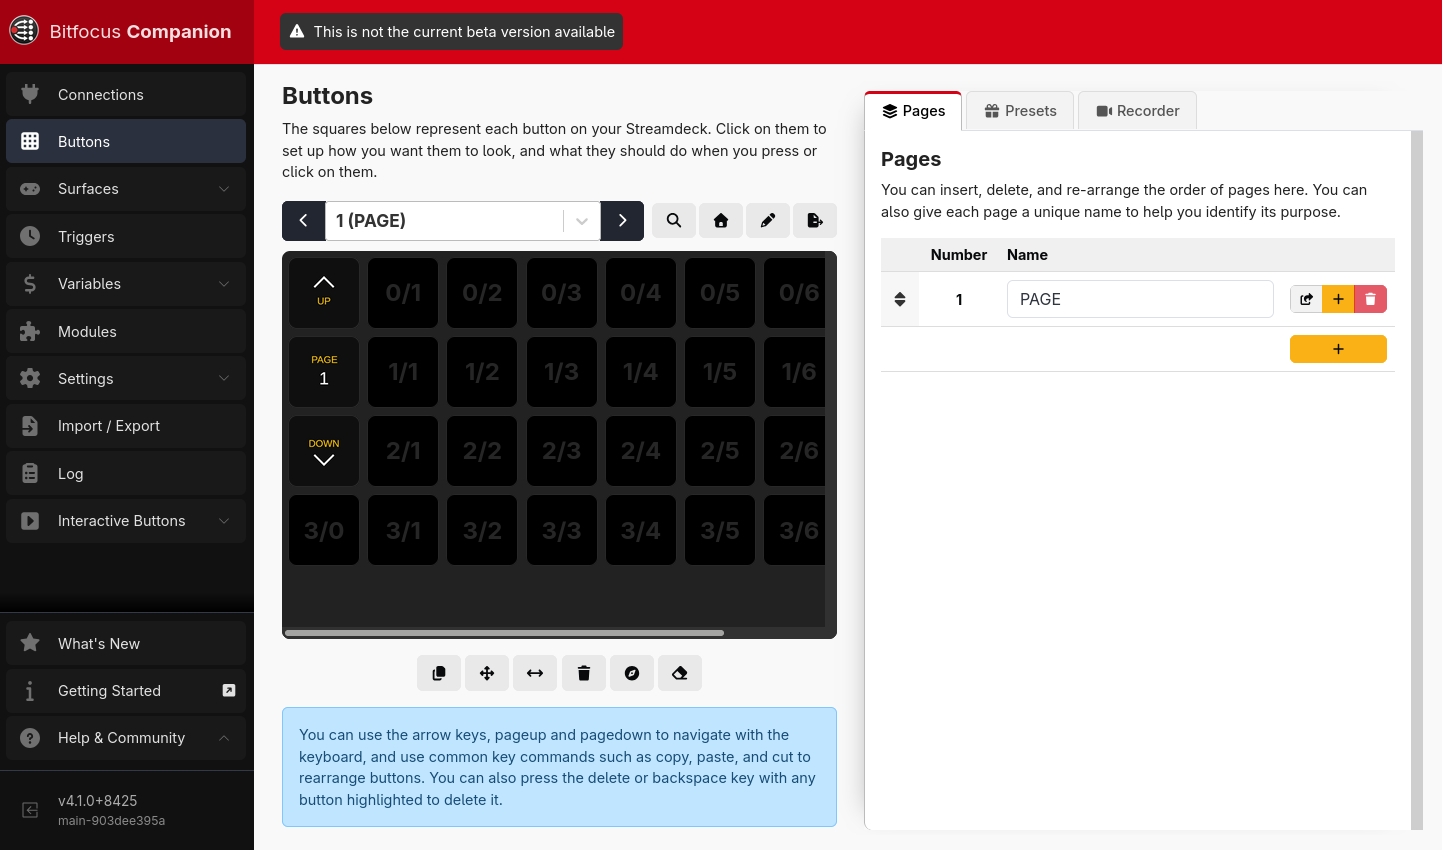
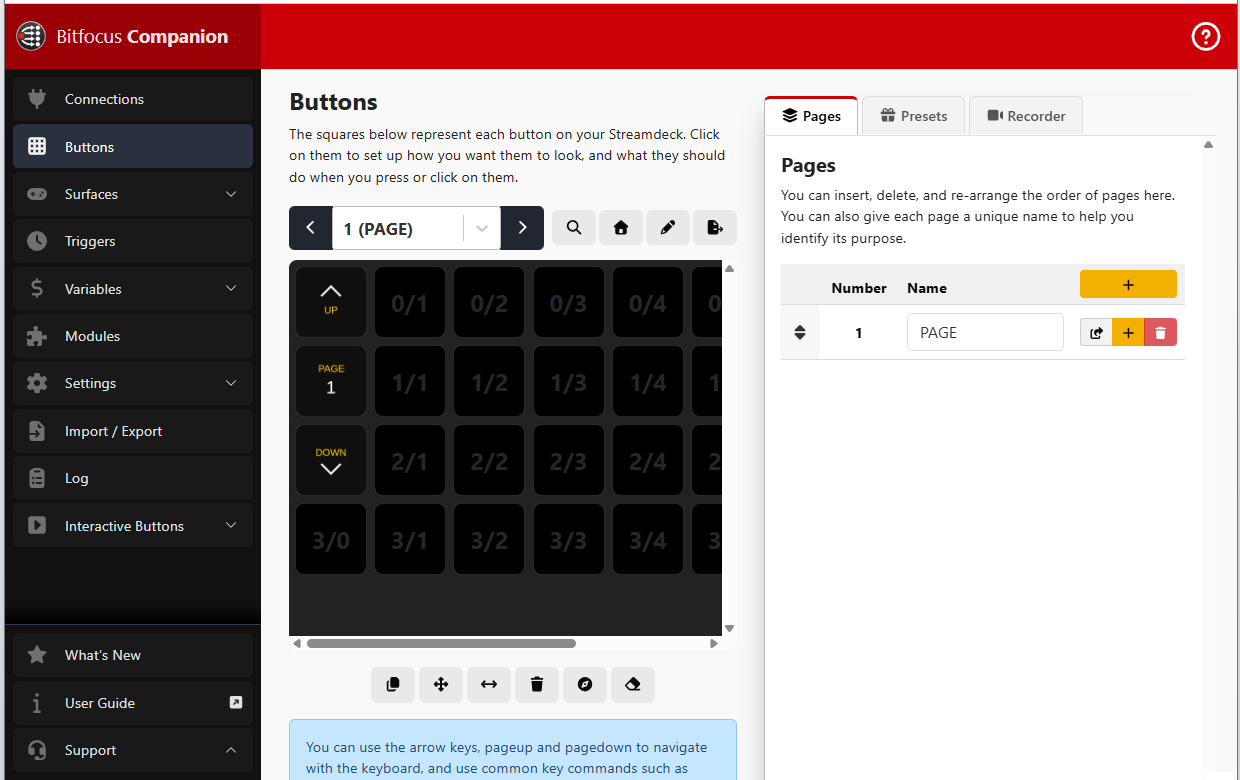
chore: update user-guide for new "layout" features (#4003)

Changed region(s): [[0.0, 0.0, 1.0, 1.0], [0.8581, 0.1231, 1.0, 1.0], [0.6742, 0.3385, 0.7661, 0.4615]]

diff --git a/docs/user-guide/3_config/the-user-interface.md b/docs/user-guide/3_config/the-user-interface.md
@@ -4,10 +4,47 @@ sidebar_position: 0
 description: Overview of the main Companion admin interface layout.
 ---
 
-This page describes the main Companion admin interface and the common places you'll interact with when configuring devices and buttons.
+This page describes the layout that you will see on every page, whether configuring devices and surfaces; defining
+buttons, variables or triggers; or performing other tasks and diagnostics.
 
-- Main navigation happens in the left Sidebar.
-- Pages are typically split into a large main panel (left) for primary tasks and a secondary panel (right) for details, previews, or contextual settings.
-- On smaller screens, the main and secondary panels will be combined using additional navigation controls to reduce scrolling and keep contextual settings accessible.
+## Main Layout
 
-![Admin GUI](images/admingui.png?raw=true 'Companion admin interface — sidebar, main panel, and right details panel')
+- You navigate to pages from the left Sidebar.
+- The header at the top of the page may show notifications, such as the availability of new versions of Companion, and
+  also provides quick access to help and support. (If you are using the
+  [Admin Password](./settings.md#admin-ui-password) feature, a lock-icon appears in the header allowing you to
+  lock the Admin interface with a single click.)
+- The main area of the page is typically split into a large main panel (left) for primary tasks and a secondary panel
+  (right) for details, previews, or contextual settings.
+- On smaller screens, the main and secondary panels will be combined using additional navigation controls to reduce
+  scrolling and keep contextual settings accessible.
+
+![Admin GUI](./images/admingui.png 'Companion admin interface — sidebar, main panel, and right details panel')
+
+## Sidebar Options
+
+Starting with version 4.3, you can customize how you interact with the sidebar through a new context-menu (typically a
+right mouse-click).
+
+![Sidebar context-menu](./images/sidebar-context-menu.png 'Sidebar context-menu')
+
+- **Collapse/Expand All Groups** will collapse or expand all top-level groups (indicated with the caret in the
+  right-hand margin, such as Surfaces and Variables).
+- **Auto-Collapse Groups** will allow only a single top-level group to be open at a time. Opening one group will close
+  all others (this is sometimes called accordion mode). When active, a check-mark is shown beside it in the
+  context-menu.
+- **Folding Sidebar**/**Fixed-Width Sidebar** toggles between these two modes. When in Folding mode, the sidebar
+  shows only the icons until you hover over it. (You can also toggle these modes from the icon in the bottom-left of the
+  sidebar.) Note that this option is not available if the window is very narrow (mobile-mode).
+- **Show/Hide Sidebar Help** toggles visibility of the Help and Support options in the lower non-scrolling section of
+  the sidebar. Since the same options are available from the help menu in the upper-right corner of the window, removing
+  them from here can allow you to see more navigation buttons without needing to scroll.
+
+## Help Menu
+
+Starting with version 4.3, you can access help from a menu in the top-right corner of the window (right end of the red
+header banner), similarly to other popular browser-based apps. The options here are the same as those seen in
+the lower part of the sidebar. The [Sidebar Options](#sidebar-options) section, above, describes how to free up space
+in the sidebar by hiding the duplicated help entries.
+
+![Header help-menu](./images/header-help-menu.png 'Header help menu')
